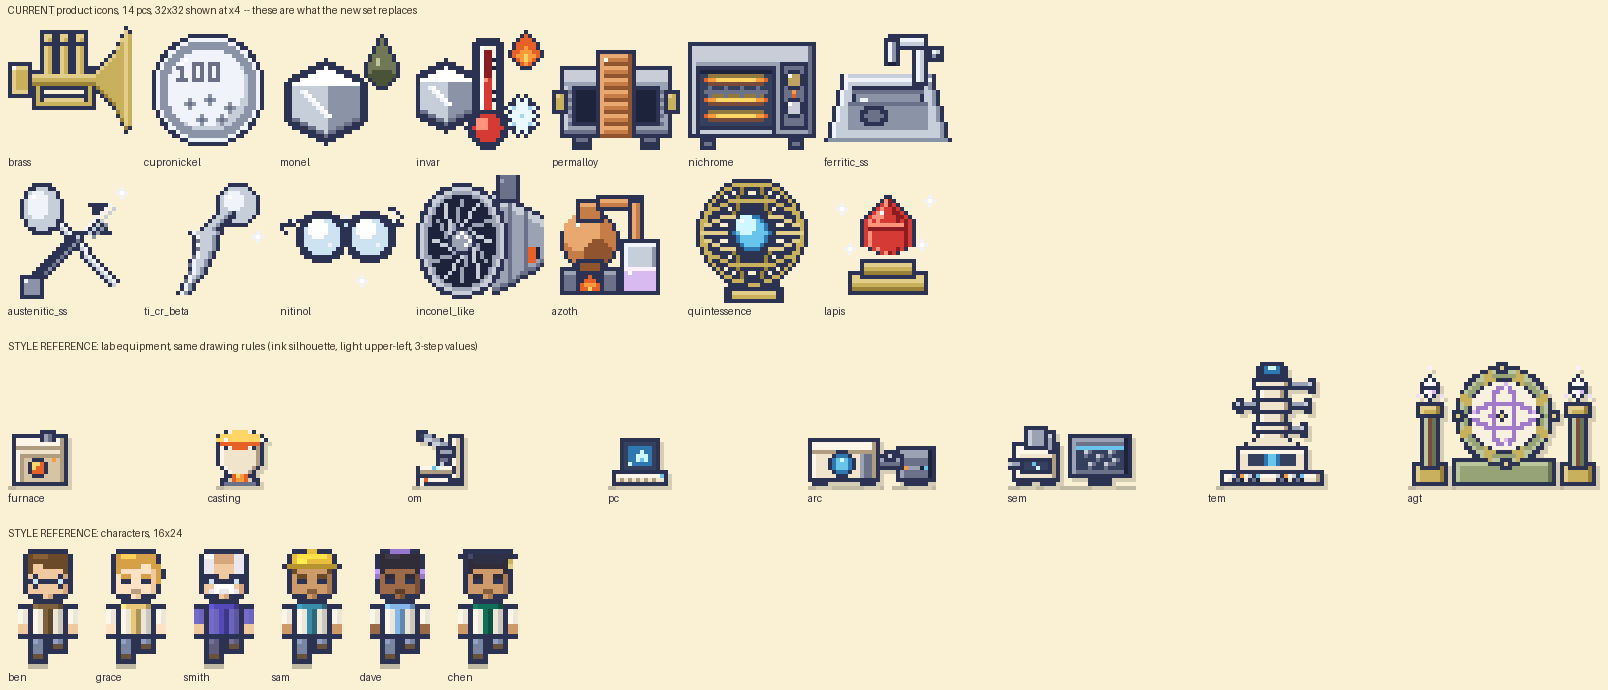
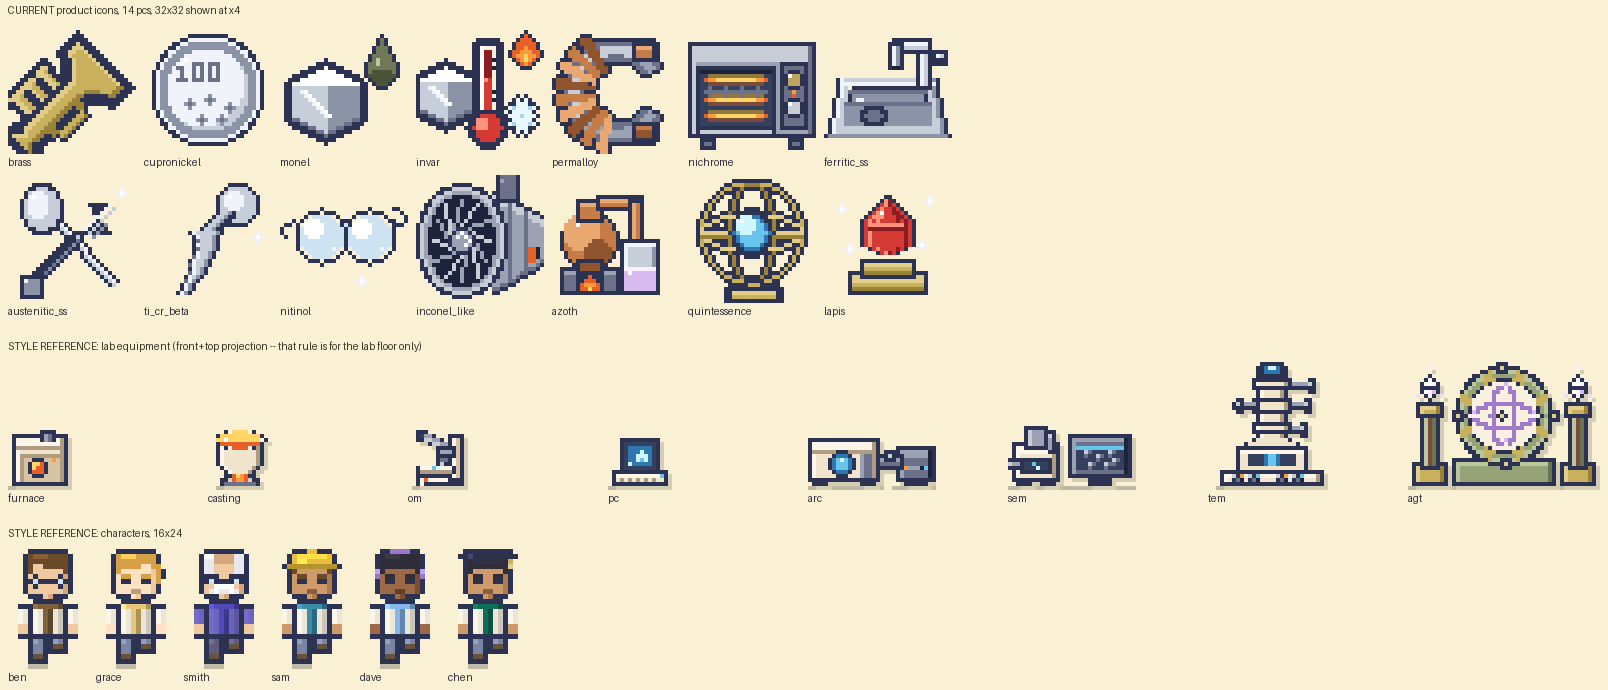
パーマロイをC型鉄心に、トランペットを斜めに
正面＋上面の規約は実験室の床に並ぶ装置のためのもので、ポップアップの
アイコンには適用しない。わかりやすさを優先する方針に合わせ、提示案の
構図へさらに寄せた。

- permalloy: C字形の鉄心の左半分に銅線を巻いた形へ。E-I型は32pxでは
  窓と中脚が同じ矩形の繰り返しになり、額縁にしか見えなかった。Cは
  形が一つしかなく、その開口部だけで磁気回路だと伝わる
- brass: 提示案どおり斜めに。45°の断面を積む描き方は市松模様になる
  （1px離れた斜線は角でしか接しない）ので、全ピクセルを楽器座標
  （軸方向u・断面方向v）で判定して塗る方式に変更。さらに、管・バルブ・
  スライドを一度に塗ると金色の塊に融合するので、パスを分けて間に
  outlineを挟んでいる
- ferritic_ss: 天板の台形を浅くし、提示案の平たいシンクに寄せた
- nitinol: リムを1pxに（2pxだとレンズが穴になりゴーグルになる）
- quintessence: 輪を5本から4本に。5本だと籠になり芯が埋もれる

仕様書も更新（投射規約の項、パーマロイの記述）。
全14点 32×32・パレット外ゼロ・半透明ゼロ、Chromiumで404・エラーなし。

Claude-Session: https://claude.ai/code/session_01R3ioSRVpnQFStEGLH7FKNm

diff --git a/tools/pixelart/products.py b/tools/pixelart/products.py
@@ -98,42 +98,77 @@ def sparkle(c, x, y):
 # =====================================================================
 @product('brass')
 def brass(c):
-    # Reference composition, house rules: bell up and to the right, valve
-    # cluster in the middle, tuning slide looping back under it. The loop is
-    # what stops three vertical casings on a tube reading as a syringe rack.
-    CY = 13
-    for i in range(10):                                   # the bell
-        x = 20 + i
-        half = 3 + (i * i) // 8
-        c.vline(x, CY - half, CY + half, INK)
-        if i:
-            c.vline(x, CY - half + 1, CY + half - 1, P['brass'])
-            c.px(x, CY - half + 1, P['brass_hi'])
-            c.px(x, CY + half - 1, P['brass_lo'])
-    c.vline(30, 1, 25, INK)                               # its rim
-    c.vline(29, 2, 24, P['brass_hi'])
-    c.vline(30, 2, 24, P['brass'])
-    c.rect(4, CY - 2, 21, CY + 2, INK)                    # the lead pipe
-    c.rect(4, CY - 1, 21, CY + 1, P['brass'])
-    c.hline(4, 21, CY - 1, P['brass_hi'])
-    c.hline(4, 21, CY + 1, P['brass_lo'])
-    for vx in (8, 12, 16):                                # three valve casings
-        c.rect(vx, 4, vx + 3, CY - 2, INK)
-        c.rect(vx + 1, 5, vx + 2, CY - 2, P['brass'])
-        c.vline(vx + 1, 5, CY - 2, P['brass_hi'])
-        c.rect(vx, 1, vx + 3, 4, INK)                     # and finger buttons
-        c.rect(vx + 1, 2, vx + 2, 3, P['brass_hi'])
-        c.px(vx + 2, 3, P['brass'])
-    c.rect(6, 17, 21, 20, INK)                            # the tuning slide,
-    c.rect(7, 18, 20, 19, P['brass'])                     # looping back under
-    c.hline(7, 20, 18, P['brass_hi'])
-    for (bx, by0) in ((6, CY + 2), (19, CY + 2)):
-        c.rect(bx, by0, bx + 2, 18, INK)
-        c.vline(bx + 1, by0, 18, P['brass'])
-    c.rect(0, CY - 4, 5, CY + 4, INK)                     # the mouthpiece
-    c.rect(1, CY - 3, 4, CY + 3, P['brass_hi'])
-    c.rect(2, CY - 2, 4, CY + 2, P['brass'])
-    c.px(1, CY - 3, P['white'])
+    # The trumpet on the diagonal, as in the reference: bell up and to the
+    # right, valves standing off the bore, slide looping back below.
+    #
+    # Two things had to be learned here. A rotated shape has to be rasterised
+    # per pixel — assembled out of 45-degree strokes it comes out as a
+    # checkerboard, because two diagonal lines a pixel apart only touch at
+    # their corners. And the parts have to be laid down in separate passes
+    # with an outline between them, or valves, bore and bell fuse into one
+    # gold blob with nothing to tell them apart.
+    OX, OY = 5.0, 27.0
+    R = math.sqrt(2) / 2
+    BORE, BELL = 15.0, 25.0
+    VALVES = (4.5, 9.0, 13.5)
+
+    def sweep(test):
+        """Paint every pixel the test accepts, in bore coordinates: u along
+        the instrument, v across it, v negative on the lit side."""
+        for y in range(32):
+            for x in range(32):
+                u = ((x - OX) - (y - OY)) * R
+                v = ((x - OX) + (y - OY)) * R
+                col = test(u, v)
+                if col is not None:
+                    c.px(x, y, col)
+
+    def shade(v, half):
+        if v < -half + 1.5:
+            return P['brass_hi']
+        if v > half - 1.1:
+            return P['brass_lo']
+        return P['brass']
+
+    def barrel(u, v):
+        if 0 <= u <= BORE:
+            half = 2.3
+        elif BORE < u <= BELL:
+            half = min(2.3 + (u - BORE) ** 2 / 8.0, 8.0)
+        elif -3.0 <= u < 0:
+            half = 1.4 - u * 0.75
+        else:
+            return None
+        return shade(v, half) if abs(v) <= half else None
+
+    sweep(barrel)
+    c.outline(INK, over=None)
+
+    def valves(u, v):
+        for vu in VALVES:
+            if abs(u - vu) <= 1.2 and -8.6 <= v <= -3.9:
+                return P['brass_hi'] if u < vu else P['brass']
+            if abs(u - vu) <= 2.0 and -10.4 <= v < -8.6:
+                return P['brass_hi']
+        return None
+
+    sweep(valves)
+    c.outline(INK, over=None)
+
+    def slide(u, v):
+        if 5.0 <= u <= 14.0 and 4.8 <= v <= 6.9:
+            return P['brass'] if v < 6.0 else P['brass_lo']
+        if (abs(u - 5.0) <= 1.0 or abs(u - 14.0) <= 1.0) and 2.6 <= v < 4.8:
+            return P['brass_lo']
+        return None
+
+    sweep(slide)
+    c.outline(INK, over=None)
+    for t in range(-8, 9):                                # a lip on the bell
+        x = int(round(OX + (BELL + t * 0.9) * R))
+        y = int(round(OY + (t * 0.9 - BELL) * R))
+        if c.d.get((x, y)) not in (None, INK):
+            c.px(x, y, P['brass_hi'])
 
 
 @product('cupronickel')
@@ -211,38 +246,40 @@ def invar(c):
 
 @product('permalloy')
 def permalloy(c):
-    # An E-I transformer read from the front: the copper sits on the centre
-    # limb with a core window either side of it. Wrapping a slab in copper
-    # bands instead just drew a crate.
-    c.rect(2, 10, 29, 27, INK)                            # the core
-    c.rect(3, 11, 28, 14, P['met_hi'])                    # its top face
-    c.hline(3, 28, 14, P['met'])
-    c.rect(3, 15, 28, 26, P['met'])
-    c.vline(3, 15, 26, P['met_hi'])
-    c.hline(3, 28, 26, P['met_lo'])
-    for y in range(16, 27, 2):                            # the laminations
-        c.hline(4, 27, y, P['met_lo'])
-    c.rect(5, 15, 11, 24, INK)                            # the two windows
-    c.rect(6, 16, 10, 23, P['ink2'])
-    c.rect(20, 15, 26, 24, INK)
-    c.rect(21, 16, 25, 23, P['ink2'])
-    c.rect(11, 6, 20, 27, INK)                            # the centre limb,
-    c.rect(12, 7, 19, 26, P['cu'])                        # wound in copper
-    for y in range(7, 27, 3):
-        c.hline(12, 19, y, P['cu_hi'])
-        c.hline(12, 19, y + 2, P['cu_lo'])
-    c.vline(12, 7, 26, P['cu_hi'])
-    c.vline(19, 7, 26, P['cu_lo'])
-    c.px(13, 8, P['white'])
-    c.rect(0, 16, 3, 21, INK)                             # the terminals
-    c.rect(1, 17, 2, 20, P['brass'])
-    c.px(1, 17, P['brass_hi'])
-    c.rect(28, 16, 31, 21, INK)
-    c.rect(29, 17, 30, 20, P['brass'])
-    c.px(29, 17, P['brass_hi'])
-    c.rect(5, 27, 9, 30, INK)                             # and the feet
-    c.rect(22, 27, 26, 30, INK)
-    c.hline(6, 8, 28, P['met_lo']); c.hline(23, 25, 28, P['met_lo'])
+    # A C-core with copper wound over about half of it. The E-I version read
+    # as a picture frame: the window and the limb are the same rectangle twice,
+    # and at 32px that is all anyone sees. A C has one unmistakable shape, and
+    # the gap in it says "magnetic circuit" without needing any detail.
+    CX, CY, RO, RI = 15.5, 16, 13, 8
+    for y in range(32):                                   # the core
+        for x in range(32):
+            dx, dy = x - CX, y - CY
+            d = math.hypot(dx, dy)
+            if not (RI <= d <= RO):
+                continue
+            if dx > 0 and abs(dy) < dx * 0.55:            # its gap, facing right
+                continue
+            if d > RO - 1.2 or d < RI + 1.2:
+                c.px(x, y, P['met_lo'])
+            elif dx + dy < -3:
+                c.px(x, y, P['met_hi'])
+            else:
+                c.px(x, y, P['met'])
+    for k in range(9):                                    # the winding, over
+        a = math.radians(104 + k * 17)                    # the left half only
+        hi = P['cu_hi'] if k % 3 == 0 else (P['cu_lo'] if k % 3 == 2 else P['cu'])
+        for t in range(-30, 31):
+            r = RI - 2.0 + (RO - RI + 4.0) * (t + 30) / 60.0
+            for w in (-0.055, 0.0, 0.055):
+                c.px(int(round(CX + r * math.cos(a + w))),
+                     int(round(CY + r * math.sin(a + w))), hi)
+    c.rect(20, 4, 25, 8, INK)                             # its two leads
+    c.rect(21, 5, 24, 7, P['cu'])
+    c.hline(21, 24, 5, P['cu_hi'])
+    c.rect(20, 24, 25, 28, INK)
+    c.rect(21, 25, 24, 27, P['cu_lo'])
+    c.hline(21, 24, 25, P['cu'])
+    c.outline(INK, over=None)
 
 
 @product('nichrome')
@@ -278,49 +315,47 @@ def nichrome(c):
 
 @product('ferritic_ss')
 def ferritic_ss(c):
-    # A sink is looked down into, so the deck is a trapezoid widening toward
-    # the viewer and the bowl walls converge to a floor; drawn as a front
-    # elevation it came out a microwave three times. The tap sits over the
-    # right of the deck and stops well short of it — carried across the full
-    # width it closed a rectangle with the deck and read as a carrying handle.
-    for i in range(17):                                   # the deck
-        y = 12 + i
-        x0 = 4 - (i * 4) // 16
-        x1 = 27 + (i * 4) // 16
+    # A shallow square sink seen from above and in front, the way the
+    # reference has it: the deck is barely a trapezoid, the bowl is a rounded
+    # square inside it, and the tap stands at the back right corner.
+    for i in range(15):                                   # the deck
+        y = 13 + i
+        x0 = 3 - (i * 3) // 14
+        x1 = 28 + (i * 3) // 14
         c.hline(x0, x1, y, INK)
         c.hline(x0 + 1, x1 - 1, y, P['sil'])
         c.px(x0 + 1, y, P['sil_hi'])
         c.px(x1 - 1, y, P['sil_lo'])
-    c.hline(5, 26, 13, P['sil_hi'])
-    c.hline(1, 30, 28, P['sil_lo'])
-    for i in range(12):                                   # the bowl
+    c.hline(4, 27, 14, P['sil_hi'])
+    c.hline(1, 30, 27, P['sil_lo'])
+    for i in range(11):                                   # the bowl
         y = 15 + i
-        x0 = 7 - (i * 2) // 11
-        x1 = 24 + (i * 2) // 11
+        x0 = 6 - (i * 2) // 10
+        x1 = 25 + (i * 2) // 10
         c.hline(x0, x1, y, INK)
         if i:
             c.hline(x0 + 1, x1 - 1, y, P['sil_lo'])
-    c.hline(7, 24, 16, P['met_lo'])                       # the far wall's shade
-    c.rect(6, 19, 25, 25, P['sil_lo'])                    # the floor
-    c.hline(6, 25, 19, P['met_lo'])
-    c.hline(5, 26, 26, P['sil'])                          # the near wall, lit
-    c.vline(5, 19, 26, P['sil'])
-    c.ellipse(12, 22, 3, 2, INK)                          # the drain, off to
-    c.ellipse(12, 22, 2, 1, P['met_lo'])                  # one side
-    c.px(9, 18, P['sil_hi']); c.px(10, 18, P['sil_hi'])
-    c.rect(22, 3, 25, 14, INK)                            # the tap's riser,
-    c.vline(23, 4, 13, P['sil_hi'])                       # kept slim: fat, it
-    c.vline(24, 4, 13, P['sil'])                          # closes a rectangle
-    c.rect(26, 5, 29, 8, INK)                             # with the deck and
-    c.px(27, 6, P['sil_hi']); c.px(28, 6, P['sil'])       # reads as a handle
-    c.px(27, 7, P['sil_lo'])
-    c.rect(16, 2, 25, 5, INK)                             # the gooseneck
-    c.hline(17, 24, 3, P['sil_hi'])
-    c.hline(17, 24, 4, P['sil'])
-    c.rect(15, 3, 18, 9, INK)                             # and the spout, well
-    c.vline(16, 4, 8, P['sil_hi'])                        # clear of the deck
-    c.vline(17, 4, 8, P['sil_lo'])
-    c.px(16, 9, P['ink2']); c.px(17, 9, P['ink2'])
+    for (x, y) in ((6, 15), (25, 15), (4, 25), (27, 25)):
+        c.d.pop((x, y), None)                             # its rounded corners
+    c.hline(6, 25, 16, P['met_lo'])                       # the far wall's shade
+    c.rect(5, 19, 26, 24, P['sil_lo'])                    # the floor
+    c.hline(5, 26, 19, P['met_lo'])
+    c.hline(4, 27, 25, P['sil'])                          # the near wall, lit
+    c.ellipse(12, 22, 3, 2, INK)                          # the drain
+    c.ellipse(12, 22, 2, 1, P['met_lo'])
+    c.px(8, 18, P['sil_hi']); c.px(9, 18, P['sil_hi'])
+    c.rect(23, 4, 26, 15, INK)                            # the tap, at the
+    c.vline(24, 5, 14, P['sil_hi'])                       # back right corner
+    c.vline(25, 5, 14, P['sil']) 
+    c.rect(27, 6, 30, 9, INK)                             # its lever
+    c.px(28, 7, P['sil_hi']); c.px(29, 7, P['sil'])
+    c.rect(17, 3, 26, 6, INK)                             # the gooseneck
+    c.hline(18, 25, 4, P['sil_hi'])
+    c.hline(18, 25, 5, P['sil'])
+    c.rect(16, 4, 19, 10, INK)                            # and the spout
+    c.vline(17, 5, 9, P['sil_hi'])
+    c.vline(18, 5, 9, P['sil_lo'])
+    c.px(17, 10, P['ink2']); c.px(18, 10, P['ink2'])
 
 
 @product('austenitic_ss')
@@ -383,27 +418,26 @@ def ti_cr_beta(c):
 
 @product('nitinol')
 def nitinol(c):
-    # Ordinary spectacles: thin rims, a bridge, and both temples. Thick rims
-    # on big lenses are goggles, and one temple is half a pair.
+    # Spectacles. The rim is one pixel: two, and the lenses stop being lenses
+    # and become the dark holes of a pair of goggles.
     for ex in (10, 22):
-        c.ring(ex, 15, 6, 5, INK)
-        c.disc(ex, 15, 4, P['glass'])
-        c.disc(ex - 1, 13, 2, P['white'])
-        c.px(ex + 2, 17, P['sil_hi'])
-    c.hline(15, 17, 11, INK)                              # the bridge
-    c.px(15, 12, INK); c.px(17, 12, INK)
-    c.px(16, 12, P['glass'])
+        ell_ring(c, ex, 15, 6, 6, INK)
+        c.disc(ex, 15, 5, P['glass'])
+        ell_ring(c, ex, 15, 6, 6, INK)
+        c.disc(ex - 2, 13, 2, P['white'])
+        c.px(ex + 3, 18, P['sil_hi'])
+    c.hline(16, 16, 11, INK)                              # the bridge
+    c.px(15, 12, INK); c.px(17, 12, INK); c.px(16, 12, P['glass'])
     c.px(16, 10, P['sil_hi'])
-    c.hline(2, 4, 11, INK)                                # left temple
-    c.hline(1, 3, 12, INK)
-    c.px(3, 11, P['sil_hi'])
-    c.px(0, 12, INK); c.px(0, 13, INK); c.px(1, 14, INK)
-    c.hline(27, 29, 11, INK)                              # right temple, bent
-    c.hline(28, 30, 12, INK)
-    c.px(28, 11, P['sil_hi'])
-    c.px(30, 10, INK); c.px(29, 9, INK)
-    c.px(28, 8, INK); c.px(27, 8, INK)
-    c.px(28, 9, P['sil_hi'])
+    c.hline(2, 3, 11, INK)                                # left temple
+    c.hline(1, 2, 12, INK)
+    c.px(0, 13, INK); c.px(0, 14, INK); c.px(1, 15, INK)
+    c.px(2, 11, P['sil_hi'])
+    c.hline(28, 29, 11, INK)                              # right temple, bent
+    c.hline(29, 30, 12, INK)
+    c.px(31, 11, INK); c.px(31, 10, INK)
+    c.px(30, 9, INK); c.px(29, 8, INK); c.px(28, 8, INK)
+    c.px(29, 11, P['sil_hi'])
     sparkle(c, 20, 26)
 
 
@@ -658,17 +692,15 @@ def azoth(c):
 
 @product('quintessence')
 def quintessence(c):
-    # An armillary sphere: gold hoops around a lit core, on a stand. The core
-    # is the blue of the reference rather than the Lv4 purple — purple is the
-    # equipment's colour in this game, and here it would read as a machine.
-    for (rx, ry, col) in ((12, 12, P['brass']),           # the meridian
-                          (4, 12, P['brass_lo']),         # a second hoop
-                          (12, 4, P['brass_hi']),         # and two latitudes
-                          (12, 8, P['brass'])):
-        ell_ring(c, 15.5, 14, rx, ry, col)
-    ell_ring(c, 15.5, 14, 12, 12, P['brass'])
-    for x in range(3, 29):                                # the equator, bright
+    # An armillary sphere: a meridian, an equator, one more hoop each way, and
+    # a lit core. Five hoops made a basket; four leave the core visible, which
+    # is the only part that says this is not furniture.
+    ell_ring(c, 15.5, 14, 12, 12, P['brass'])             # the meridian
+    ell_ring(c, 15.5, 14, 5, 12, P['brass_lo'])           # a second, edge-on
+    ell_ring(c, 15.5, 14, 12, 4, P['brass_hi'])           # a tropic
+    for x in range(3, 29):                                # and the equator
         c.px(x, 14, P['brass_hi'])
+        c.px(x, 15, P['brass_lo'])
     c.disc(15.5, 14, 5, INK)                              # the core
     c.disc(15.5, 14, 4, P['ener_c'])
     c.disc(15.5, 14, 3, P['ener_b'])

diff --git a/docs/product-icon-spec.md b/docs/product-icon-spec.md
@@ -46,9 +46,9 @@
 3. 1つの面につき **明・中・暗の3階調**を基本とする。4階調以上は使わない。
 4. 色は**下記パレットから選ぶ**。新色を足さない（下地のクリームと近すぎる色を
    自作すると、アイコンが背景に溶ける）。
-5. **投射は「正面図＋上面」**が基本。左右対称で、消失点を持たない。
-   ただしアイコンは床に置く装置と違い、**可読性が優先**。
-   「この形は斜めからでないと伝わらない」場合に限り斜方を使ってよい（例：ジェットエンジン）。
+5. **投射は自由**。「正面図＋上面」は実験室の床に並ぶ装置の規約であって、
+   ポップアップのアイコンには適用しない。**わかりやすさが最優先**で、
+   斜方でもアイソメでも、その物が最も伝わる角度を選ぶ。
 6. 画面いっぱいに描かず、**上下左右 1〜2px は余白**を残す。
 
 ### パレット（これ以外の色を使わない）
@@ -85,7 +85,7 @@
 | 2 | `cupronickel` | Cupronickel（白銅） | **100円硬貨** | 銀色の円形硬貨。額面か桜の意匠が入っているとよい |
 | 3 | `monel` | Monel | **ピカピカの金属バルクと、汚い水滴** | 耐食性の表現。両者を**重ねない**。金属バルクの右上に涙滴形（上が尖り下が丸い）の汚水を1粒。水滴は `grime` 系、金属は `sil` 系 |
 | 4 | `invar` | Invar | **金属バルク／温度計／炎／氷** | 低熱膨張の表現。4要素を**重ねず並置**する。金属バルクの右に温度計を置き、その**高温側（上）に炎**、**低温側（下）に氷の結晶**をアイコン的に添える |
-| 5 | `permalloy` | Permalloy | **E-I コアのトランス** | 軟磁性材料。積層コアと巻線（銅色）、端子 |
+| 5 | `permalloy` | Permalloy | **C型鉄心のコイル** | 軟磁性材料。C字形の鉄心の**半分ほどに銅線が巻きついた**形。E-I型は32pxでは窓と脚が同じ矩形の繰り返しになり、額縁に見える |
 | 6 | `nichrome` | Nichrome | **オーブントースター** | **突き刺し式（ポップアップ式）ではなく、扉を手前に開ける形式**。扉のガラス越しに発熱体が赤熱しているのが見えるとよい |
 | 7 | `ferritic_ss` | Ferritic Stainless（SUS430系） | **キッチンのシンク** | アパートにもあるような**一般的な四角いステンレスシンク**のデフォルメ。**配管は描かない**。蛇口はあってよい |
 | 8 | `austenitic_ss` | Austenitic Stainless（SUS304系） | **スプーンと医療用メス** | 2本を交差させる。メスは柄と刃の区別がつく太さで |
